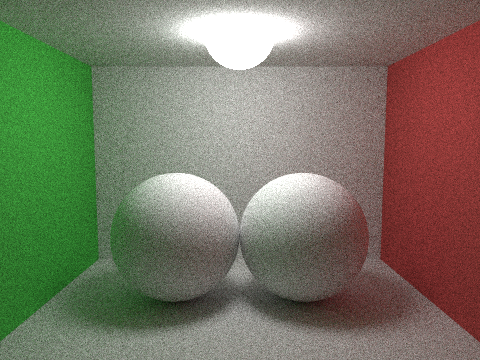
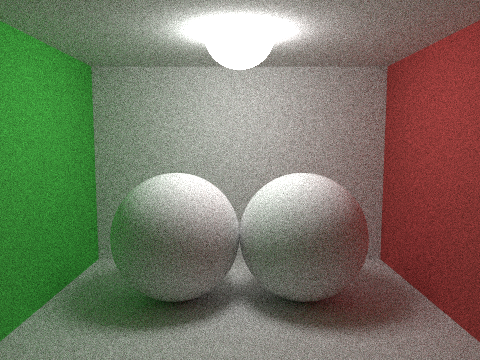
Forgot to transform Rays direction when multiplying by a matrix

Changed region(s): [[0.0, 0.0, 1.0, 1.0]]

diff --git a/src/ray.rs b/src/ray.rs
@@ -30,7 +30,7 @@ impl Mul<&Ray> for Mat4 {
     fn mul(self, rhs: &Ray) -> Self::Output {
         Ray::new(
             (self * Vec4::new(rhs.origin.x, rhs.origin.y, rhs.origin.z, 1.0)).xyz(),
-            rhs.direction,
+            (self * Vec4::from(rhs.direction)).xyz(),
             rhs.t_min,
             rhs.t_max,
         )
